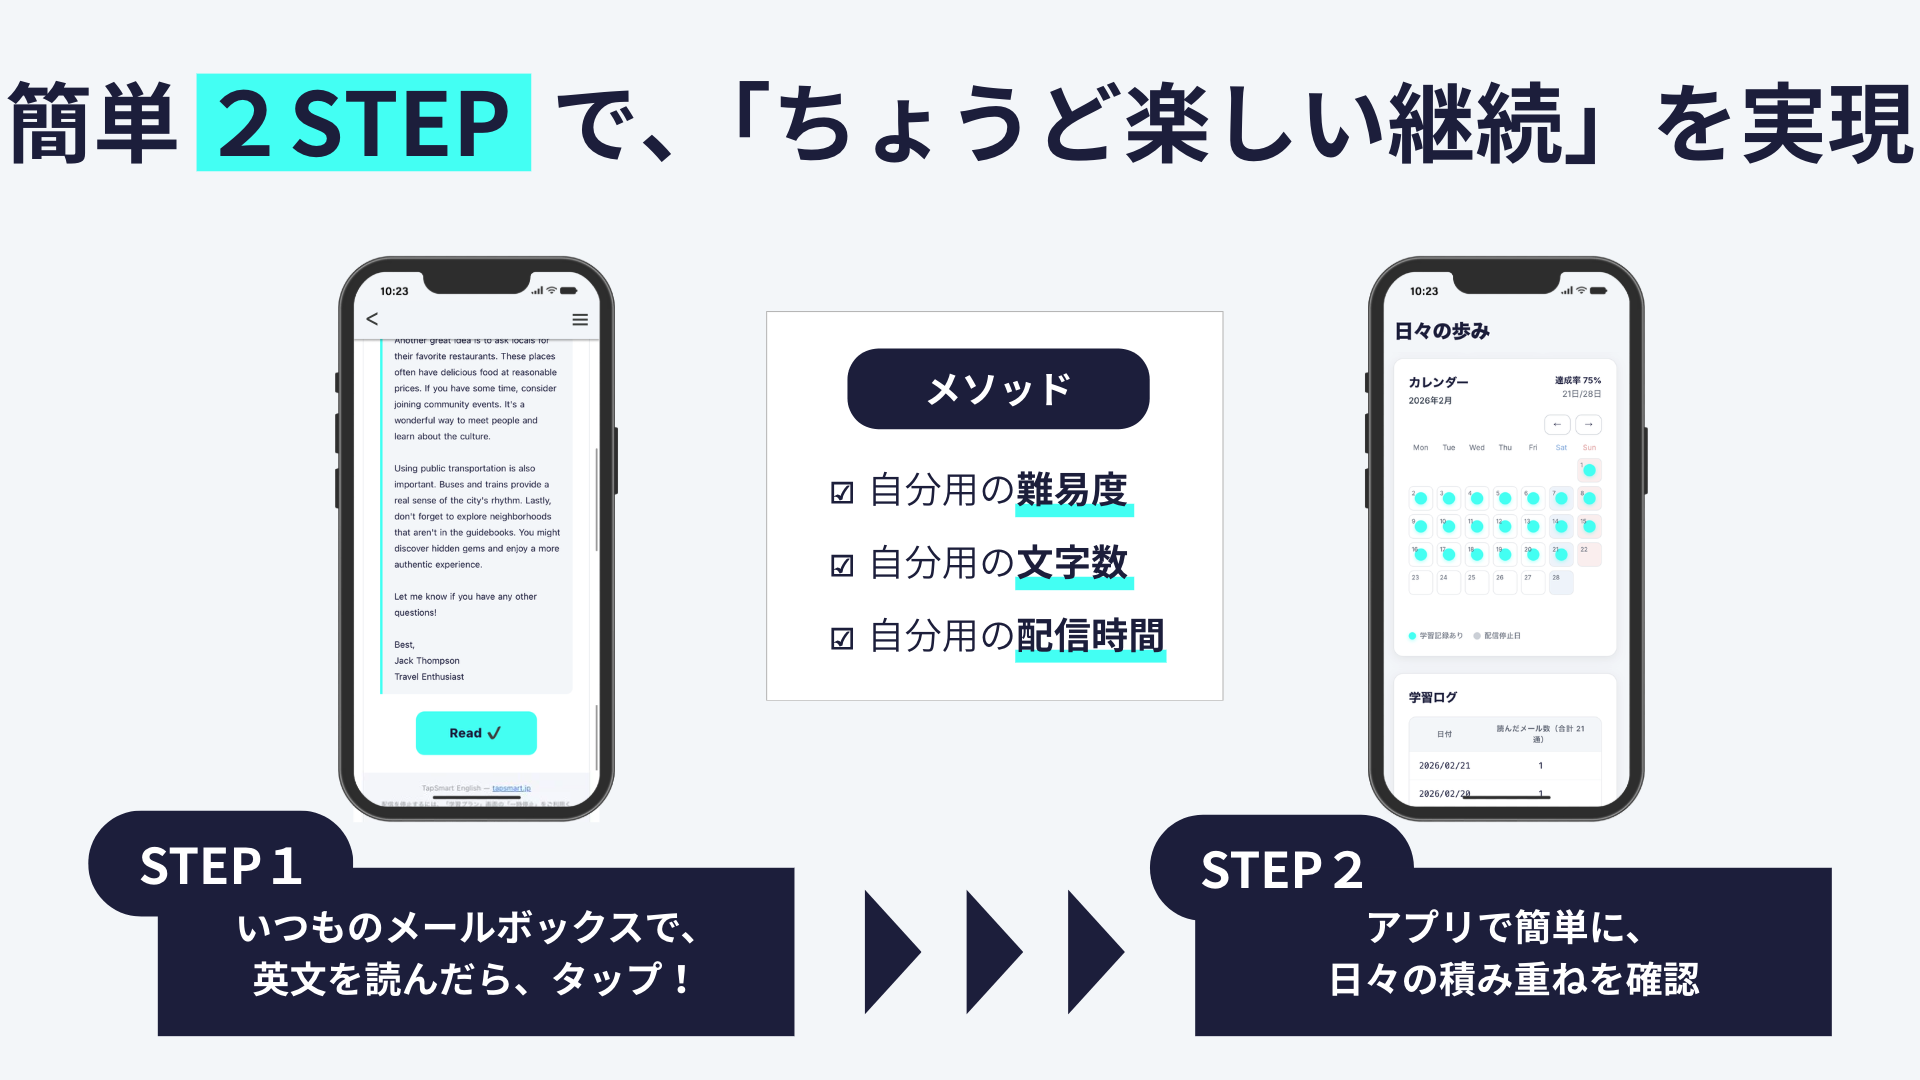
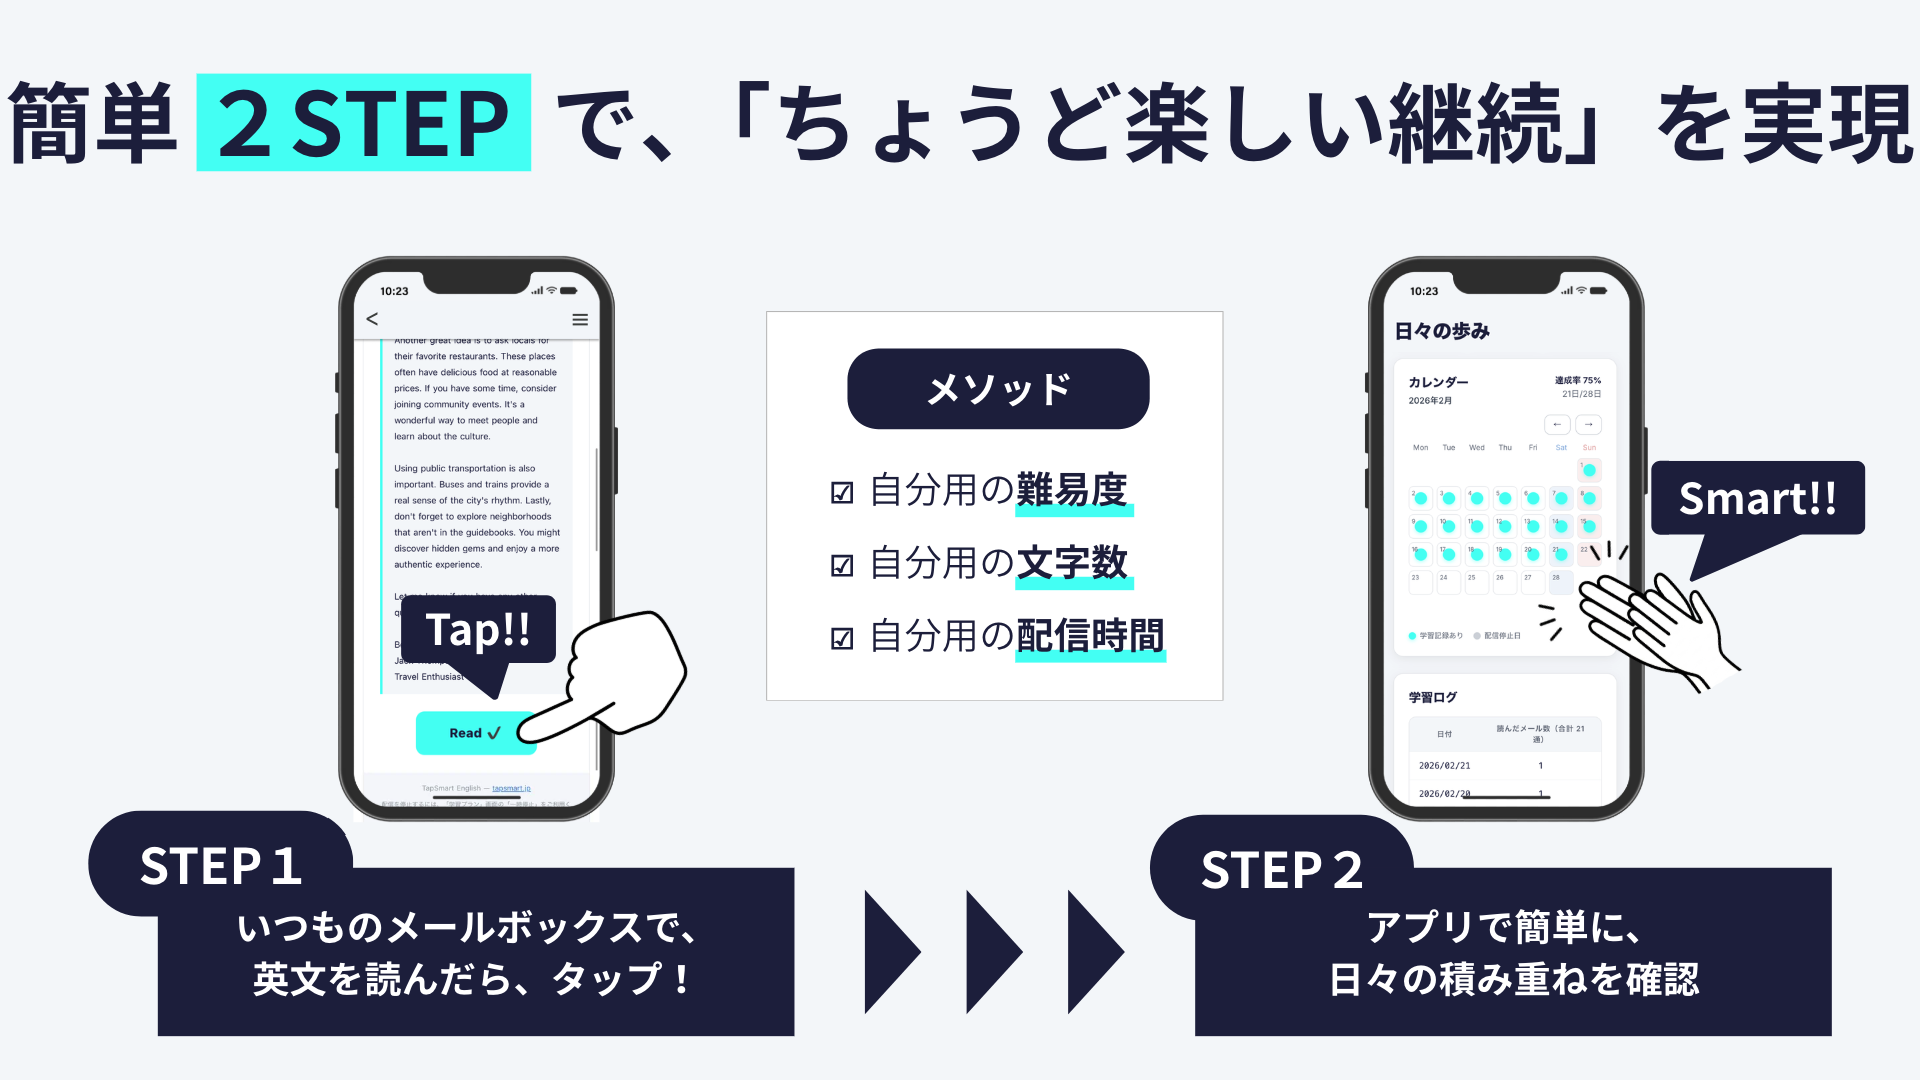
Update description images; reduce section header bottom margins to 40px

Changed region(s): [[0.8125, 0.4278, 0.9688, 0.6417], [0.1875, 0.55, 0.3438, 0.7028]]

diff --git a/app/landing.css b/app/landing.css
@@ -317,6 +317,11 @@
   color: var(--text-gray);
 }
 
+.features .section-header,
+.how-it-works .section-header {
+  margin-bottom: 40px;
+}
+
 .features-grid {
   max-width: 1200px;
   margin: 0 auto;
@@ -398,6 +403,7 @@
 .function-details .section-header {
   position: relative;
   z-index: 1;
+  margin-bottom: 40px;
 }
 
 .strengths-brand {
